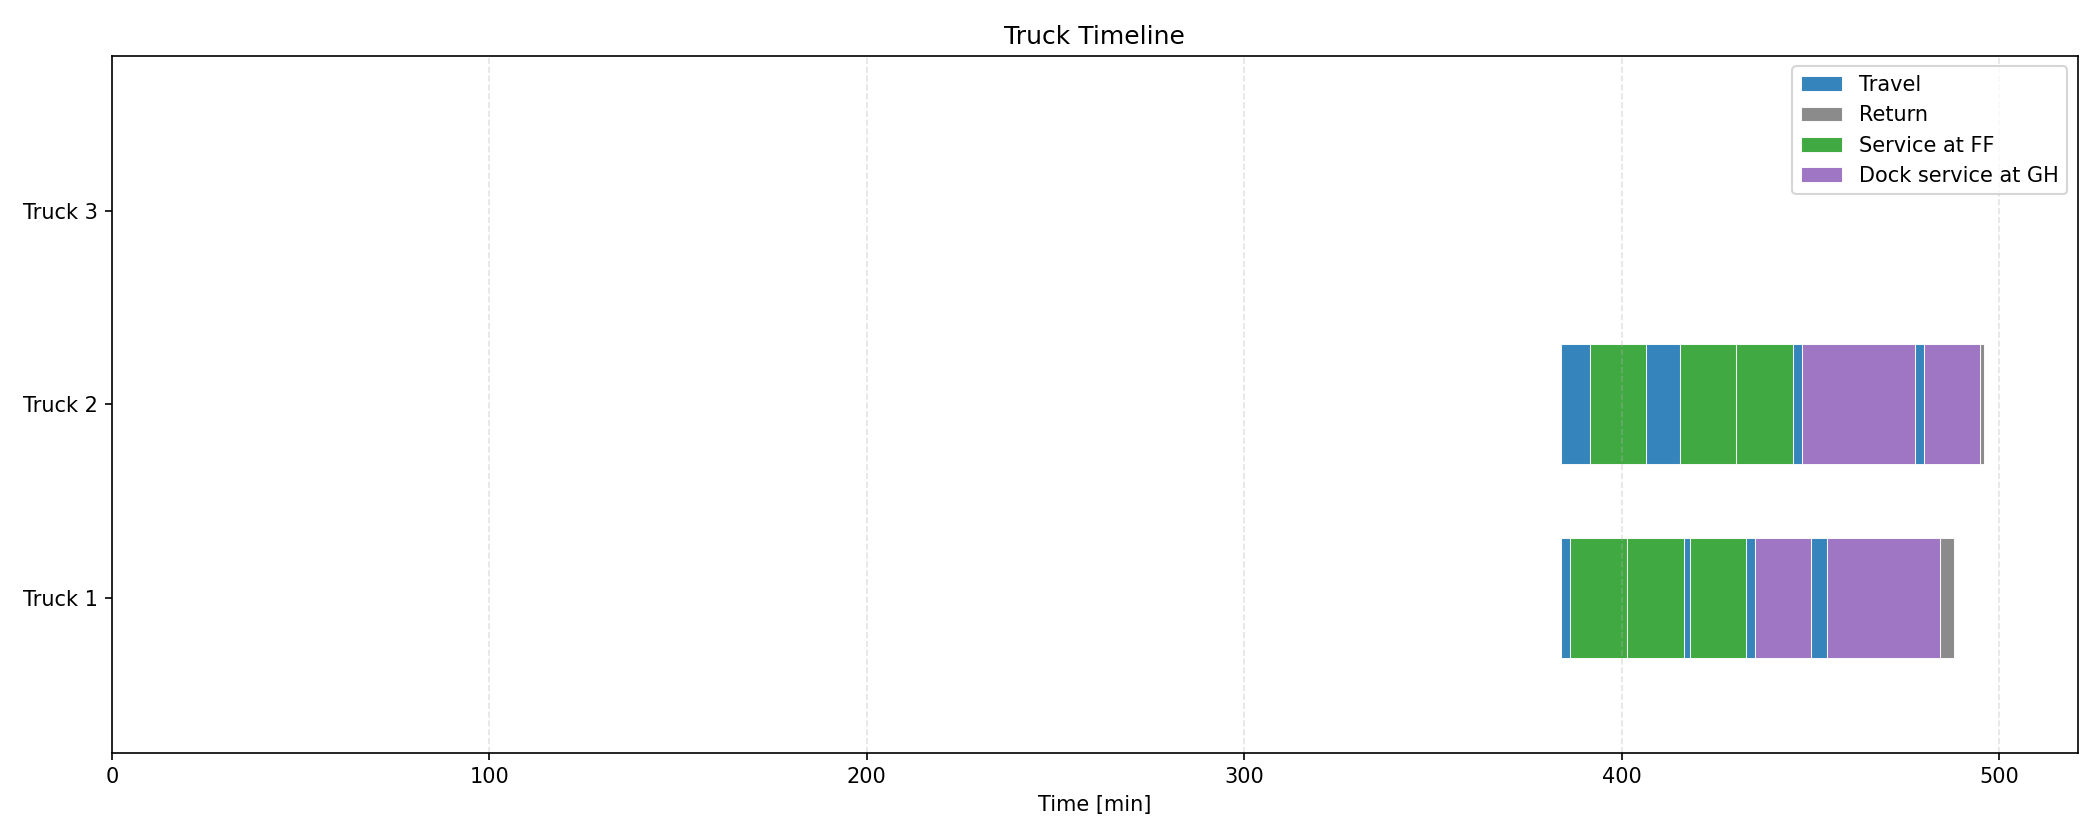
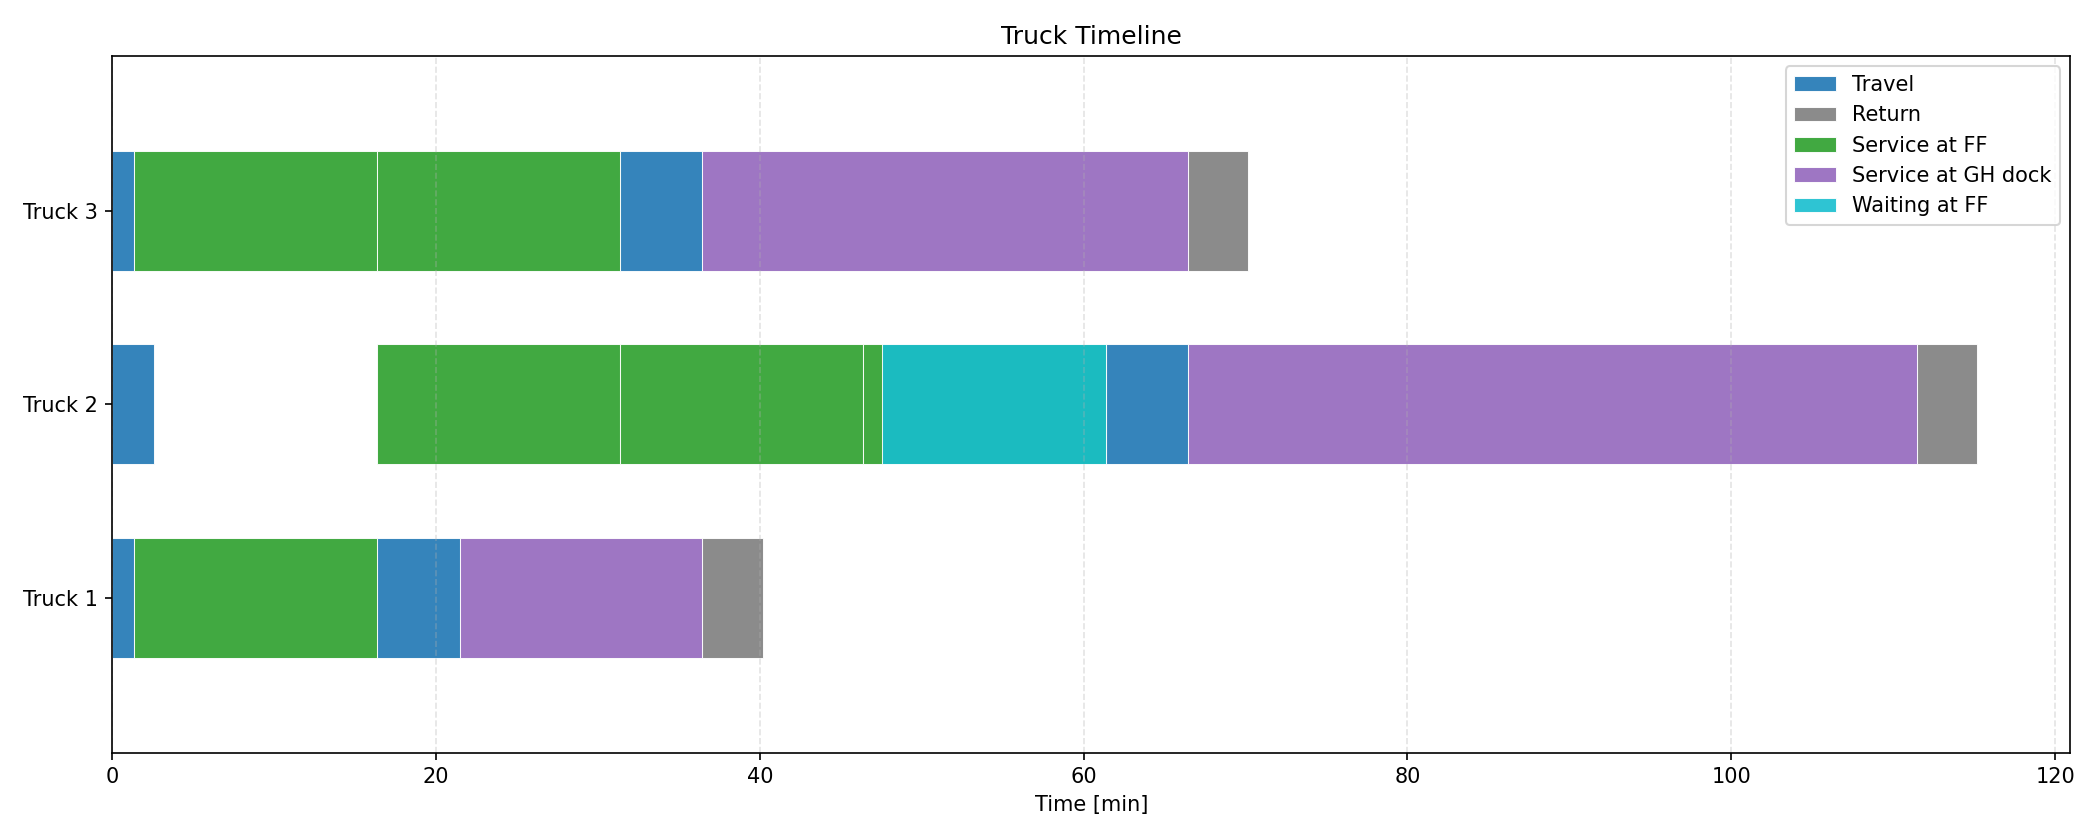
Enhance Gantt chart visualization by adding waiting phases for freight forwarders and ground handlers, and update related images

diff --git a/Sensitivity_GH_FHs.py b/Sensitivity_GH_FHs.py
@@ -142,10 +142,15 @@ def plot_truck_timeline_gantt(
     tau_vals: Dict[int, float],
     proc_times: Dict[int, float],
     nodes_p: List[int],
+    ff_nodes: Dict[int, List[int]],
+    a_f_vals: Dict,
+    d_f_vals: Dict,
+    w_f_vals: Dict,
     gh_nodes: Dict[int, List[int]],
     a_g_vals: Dict,
     d_g_vals: Dict,
     w_d_vals: Dict,
+    w_g_vals: Dict,
     tau_end_vals: Dict[int, float],
     output_path: str = "truck_timeline.png",
 ):
@@ -155,15 +160,19 @@ def plot_truck_timeline_gantt(
     phase_colors = {
         "travel": "#1f77b4",
         "ff_service": "#2ca02c",
+        "ff_wait": "#17becf",
         "gh_queue": "#ff7f0e",
-        "gh_dock": "#9467bd",
+        "gh_wait": "#bcbd22",
+        "gh_service": "#9467bd",
         "return": "#7f7f7f",
     }
     phase_labels = {
         "travel": "Travel",
         "ff_service": "Service at FF",
+        "ff_wait": "Waiting at FF",
         "gh_queue": "Queue at GH",
-        "gh_dock": "Dock service at GH",
+        "gh_wait": "Waiting at GH dock",
+        "gh_service": "Service at GH dock",
         "return": "Return",
     }
 
@@ -204,15 +213,26 @@ def plot_truck_timeline_gantt(
                 if node in nodes_p:
                     add_phase_bar(row, tau_vals.get(node, 0.0), proc_times.get(node, 0.0), "ff_service")
 
+        for f in ff_nodes.keys():
+            arr_f = a_f_vals.get((k, f), 0.0)
+            dep_f = d_f_vals.get((k, f), 0.0)
+            ff_wait = max(0.0, w_f_vals.get((k, f), 0.0))
+            if dep_f > arr_f + eps and ff_wait > eps:
+                ff_wait_start = max(arr_f, dep_f - ff_wait)
+                add_phase_bar(row, ff_wait_start, min(ff_wait, dep_f - ff_wait_start), "ff_wait")
+
         for g in gh_nodes.keys():
             arr = a_g_vals.get((k, g), 0.0)
             dep = d_g_vals.get((k, g), 0.0)
             queue = max(0.0, w_d_vals.get((k, g), 0.0))
             dock_start = arr + queue
             dock_duration = max(0.0, dep - dock_start)
+            gh_wait = min(max(0.0, w_g_vals.get((k, g), 0.0)), dock_duration)
+            gh_service = max(0.0, dock_duration - gh_wait)
 
             add_phase_bar(row, arr, queue, "gh_queue")
-            add_phase_bar(row, dock_start, dock_duration, "gh_dock")
+            add_phase_bar(row, dock_start, gh_wait, "gh_wait")
+            add_phase_bar(row, dock_start + gh_wait, gh_service, "gh_service")
 
     max_end = max([tau_end_vals.get(k, 0.0) for k in trucks] + [1.0])
     ax.set_xlim(0, max_end * 1.05)
@@ -226,6 +246,7 @@ def plot_truck_timeline_gantt(
     fig.tight_layout()
     fig.savefig(output_path, dpi=150)
     print(f"Truck timeline Gantt saved to: {output_path}")
+    plt.show()
 
 def plot_ff_gh_flow_matrix(
     served_pickups: List[int],
@@ -336,7 +357,7 @@ L = {0: 0} # Lengths
 # }
 
 # Locations
-locs_11 = {
+locs_0 = {
     'FF1': (dms_to_dd(52,17,46.8), dms_to_dd(4,46,10.4)),
     'FF2': (dms_to_dd(52,18,6.8),  dms_to_dd(4,45,3.2)),
     'GH1': (dms_to_dd(52,17,0.8),  dms_to_dd(4,46,7.1)),
@@ -344,9 +365,32 @@ locs_11 = {
 }
 
 
-print(locs_11)
+
+locs_1 = {
+    'FF2': (dms_to_dd(52,18,6.8),  dms_to_dd(4,45,3.2)),
+    'GH1': (dms_to_dd(52,17,0.8),  dms_to_dd(4,46,7.1)),
+    'GH2': (dms_to_dd(52,16,32.9), dms_to_dd(4,44,30.0)),
+}
+
 
 locs_2 = {
+    'FF1': (dms_to_dd(52,17,46.8), dms_to_dd(4,46,10.4)),
+    'FF2': (dms_to_dd(52,18,6.8),  dms_to_dd(4,45,3.2)),
+    'GH2': (dms_to_dd(52,16,32.9), dms_to_dd(4,44,30.0)) 
+}
+
+
+
+locs_3 = {
+    'FF1': (dms_to_dd(52,17,46.8), dms_to_dd(4,46,10.4)),
+    'FF2': (dms_to_dd(52,18,6.8),  dms_to_dd(4,45,3.2)),
+    'FF3': (dms_to_dd(52,15,0.9108), dms_to_dd(4,46,9.0422)),
+    'GH1': (dms_to_dd(52,17,0.8),  dms_to_dd(4,46,7.1)),
+    'GH2': (dms_to_dd(52,16,32.9), dms_to_dd(4,44,30.0)),
+    'GH3': (dms_to_dd(52,17,42.297), dms_to_dd(4,45,57.302))
+}
+
+locs_4 = {
     'FF1': (dms_to_dd(52,17,46.8), dms_to_dd(4,46,10.4)),
     'FF2': (dms_to_dd(52,18,6.8),  dms_to_dd(4,45,3.2)),
     'FF3': (dms_to_dd(52,15,0.9108), dms_to_dd(4,46,9.0422)),
@@ -356,25 +400,6 @@ locs_2 = {
     'GH3': (dms_to_dd(52,17,42.297), dms_to_dd(4,45,57.302)),
     'GH4': (dms_to_dd(52,17,50.289), dms_to_dd(4,44,46.132))  
 }
-
-locs_3 = {
-    'FF1': (dms_to_dd(52,17,46.8), dms_to_dd(4,46,10.4)),
-    'FF2': (dms_to_dd(52,18,6.8),  dms_to_dd(4,45,3.2)),
-    'GH2': (dms_to_dd(52,16,32.9), dms_to_dd(4,44,30.0)) 
-}
-
-locs_4 = {
-    'FF2': (dms_to_dd(52,18,6.8),  dms_to_dd(4,45,3.2)),
-    'GH1': (dms_to_dd(52,17,0.8),  dms_to_dd(4,46,7.1)),
-    'GH2': (dms_to_dd(52,16,32.9), dms_to_dd(4,44,30.0)),
-}
-
-locs_4 = {
-    'FF1': (dms_to_dd(52,17,46.8), dms_to_dd(4,46,10.4)),
-    'GH1': (dms_to_dd(52,17,0.8),  dms_to_dd(4,46,7.1)),
-    'GH2': (dms_to_dd(52,16,32.9), dms_to_dd(4,44,30.0)),
-}
-
 
 
 
@@ -991,10 +1016,15 @@ else:
         tau_vals={i: val(tau[i]) for i in All_Nodes},
         proc_times=P,
         nodes_p=Nodes_P,
+        ff_nodes=FFs,
+        a_f_vals={(k, f): val(a_F[k, f]) for k in K_trucks for f in FFs.keys()},
+        d_f_vals={(k, f): val(d_F[k, f]) for k in K_trucks for f in FFs.keys()},
+        w_f_vals={(k, f): val(w_F[k, f]) for k in K_trucks for f in FFs.keys()},
         gh_nodes=GHs,
         a_g_vals={(k, g): val(a_G[k, g]) for k in K_trucks for g in GHs.keys()},
         d_g_vals={(k, g): val(d_G[k, g]) for k in K_trucks for g in GHs.keys()},
         w_d_vals={(k, g): val(w_D[k, g]) for k in K_trucks for g in GHs.keys()},
+        w_g_vals={(k, g): val(w_G[k, g]) for k in K_trucks for g in GHs.keys()},
         tau_end_vals={k: val(tau_end[k]) for k in K_trucks},
     )
     

diff --git a/FINAL_MAIN.py b/FINAL_MAIN.py
@@ -139,10 +139,15 @@ def plot_truck_timeline_gantt(
     tau_vals: Dict[int, float],
     proc_times: Dict[int, float],
     nodes_p: List[int],
+    ff_nodes: Dict[int, List[int]],
+    a_f_vals: Dict,
+    d_f_vals: Dict,
+    w_f_vals: Dict,
     gh_nodes: Dict[int, List[int]],
     a_g_vals: Dict,
     d_g_vals: Dict,
     w_d_vals: Dict,
+    w_g_vals: Dict,
     tau_end_vals: Dict[int, float],
     output_path: str = "truck_timeline.png",
 ):
@@ -152,15 +157,19 @@ def plot_truck_timeline_gantt(
     phase_colors = {
         "travel": "#1f77b4",
         "ff_service": "#2ca02c",
+        "ff_wait": "#17becf",
         "gh_queue": "#ff7f0e",
-        "gh_dock": "#9467bd",
+        "gh_wait": "#bcbd22",
+        "gh_service": "#9467bd",
         "return": "#7f7f7f",
     }
     phase_labels = {
         "travel": "Travel",
         "ff_service": "Service at FF",
+        "ff_wait": "Waiting at FF",
         "gh_queue": "Queue at GH",
-        "gh_dock": "Dock service at GH",
+        "gh_wait": "Waiting at GH dock",
+        "gh_service": "Service at GH dock",
         "return": "Return",
     }
 
@@ -201,15 +210,26 @@ def plot_truck_timeline_gantt(
                 if node in nodes_p:
                     add_phase_bar(row, tau_vals.get(node, 0.0), proc_times.get(node, 0.0), "ff_service")
 
+        for f in ff_nodes.keys():
+            arr_f = a_f_vals.get((k, f), 0.0)
+            dep_f = d_f_vals.get((k, f), 0.0)
+            ff_wait = max(0.0, w_f_vals.get((k, f), 0.0))
+            if dep_f > arr_f + eps and ff_wait > eps:
+                ff_wait_start = max(arr_f, dep_f - ff_wait)
+                add_phase_bar(row, ff_wait_start, min(ff_wait, dep_f - ff_wait_start), "ff_wait")
+
         for g in gh_nodes.keys():
             arr = a_g_vals.get((k, g), 0.0)
             dep = d_g_vals.get((k, g), 0.0)
             queue = max(0.0, w_d_vals.get((k, g), 0.0))
             dock_start = arr + queue
             dock_duration = max(0.0, dep - dock_start)
+            gh_wait = min(max(0.0, w_g_vals.get((k, g), 0.0)), dock_duration)
+            gh_service = max(0.0, dock_duration - gh_wait)
 
             add_phase_bar(row, arr, queue, "gh_queue")
-            add_phase_bar(row, dock_start, dock_duration, "gh_dock")
+            add_phase_bar(row, dock_start, gh_wait, "gh_wait")
+            add_phase_bar(row, dock_start + gh_wait, gh_service, "gh_service")
 
     max_end = max([tau_end_vals.get(k, 0.0) for k in trucks] + [1.0])
     ax.set_xlim(0, max_end * 1.05)
@@ -905,10 +925,15 @@ else:
         tau_vals={i: val(tau[i]) for i in All_Nodes},
         proc_times=P,
         nodes_p=Nodes_P,
+        ff_nodes=FFs,
+        a_f_vals={(k, f): val(a_F[k, f]) for k in K_trucks for f in FFs.keys()},
+        d_f_vals={(k, f): val(d_F[k, f]) for k in K_trucks for f in FFs.keys()},
+        w_f_vals={(k, f): val(w_F[k, f]) for k in K_trucks for f in FFs.keys()},
         gh_nodes=GHs,
         a_g_vals={(k, g): val(a_G[k, g]) for k in K_trucks for g in GHs.keys()},
         d_g_vals={(k, g): val(d_G[k, g]) for k in K_trucks for g in GHs.keys()},
         w_d_vals={(k, g): val(w_D[k, g]) for k in K_trucks for g in GHs.keys()},
+        w_g_vals={(k, g): val(w_G[k, g]) for k in K_trucks for g in GHs.keys()},
         tau_end_vals={k: val(tau_end[k]) for k in K_trucks},
     )
     
